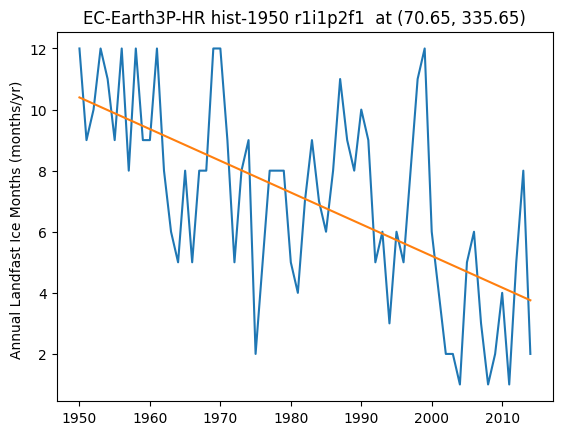
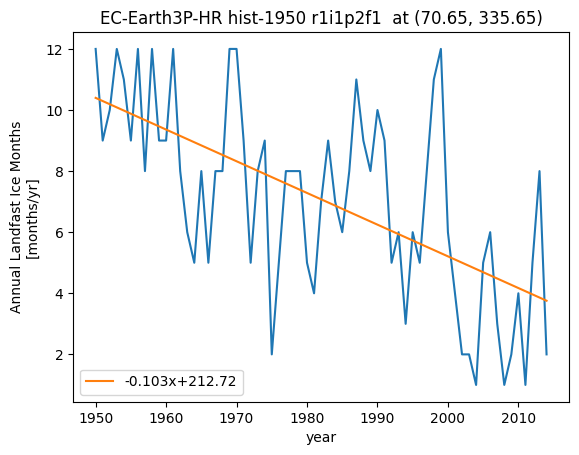
docs(landfast_trends): update single cell trend code blocks to use `plot_time_series()` function

Changed region(s): [[0.0, 0.0, 0.9982, 0.9862], [0.0, 0.7172, 0.0605, 0.8368], [0.0605, 0.8069, 0.0907, 0.8368]]

diff --git a/docs/docs_analysis/landfast_trends.md b/docs/docs_analysis/landfast_trends.md
@@ -14,6 +14,7 @@ This directly uses the `silandfast` datafiles generated in {doc}`Identifying lan
     - [HadGEM3-GC31-HM landfast ice trend maps](#hadgem3-gc31-hm-landfast-ice-trend-maps)
     - [HadGEM3-GC31-HH landfast ice trend map](#hadgem3-gc31-hh-landfast-ice-trend-map)
 
+---
 ## Calculating trends in landfast ice
 [back to top](#trends-in-landfast-ice-over-time)
 
@@ -165,38 +166,26 @@ print(f"Longitude: {test_spot_xr['longitude'].values}")
 Latitude: 70.64608001708984
 Longitude: 335.64935302734375
 ```
-For this chosen spot, I can then use the `numpy.polyfit()` function to get trend line.
+For this chosen spot, I can then use the `numpy.polyfit()` function to get trend line, a process which I've written into my `plot_time_series()` function.
 ```python
-import matplotlib.pyplot as plt 
+from arctichoke.plot import make_title, plot_time_series
 
-# Create a figure with one subplot
-fig = plt.figure()
-ax = fig.add_subplot(1,1,1)
-
-# Plot `silandfast_year_sum` over time
-ax.plot(test_spot_xr['year'].values, test_spot_xr['silandfast_year_sum'].values)
-
-import numpy as np
-
-# Returns an array of [m, b] for y=mx+b
-regressions = np.polyfit(test_spot_xr.year.values, test_spot_xr['silandfast_year_sum'].values, 1)
-print(f"Slope of regression line: {regressions[0]} annual landfast ice months per year")
-
-# Plot the regression line
-ax.plot(test_spot_xr.year.values, test_spot_xr.year.values*regressions[0] + regressions[1])
-
-from arctichoke.plot.labels_and_titles import make_title, make_label
-
-# Format the plot
-ax.set_ylabel(make_label(test_spot_xr, 'silandfast_year_sum'))
+# Make the plot title
 this_lon = f"{test_spot_xr['longitude'].values:.2f}"
 this_lat = f"{test_spot_xr['latitude'].values:.2f}"
-ax.set_title(f"{make_title(test_spot_xr)} at ({this_lat}, {this_lon})")
+this_plot_title = f"{make_title(test_spot_xr)} at ({this_lat}, {this_lon})"
 
-plt.show()
+this_plot = plot_time_series(
+    test_spot_xr,
+    'silandfast_year_sum',
+    plt_title = this_plot_title,
+    add_regression = True,
+    verbose = True,
+)
 ```
 ```console
-Slope of regression line: -0.1037587412587413 annual landfast ice months per year
+(plot_time_series) `save_as`: None
+(plot_time_series) Slope of regression line: -0.1037587412587413
 ```
 ![EC_Earth3P-HR_silandfast_CAA_sum_trend_at_Ittoqqortoormiit.png](landfast_trends-img/EC_Earth3P-HR_silandfast_CAA_sum_trend_at_Ittoqqortoormiit.png)
 
@@ -206,38 +195,26 @@ Most of the trends in the CAA are much smaller, for example the one below for a 
 ```python
 test_spot_xr = EC_Earth3P_HR_hist_silandfast_CAA_sum_xr.isel(j=198, i=518)
 
-import matplotlib.pyplot as plt 
+from arctichoke.plot import make_title, plot_time_series
 
-# Create a figure with one subplot
-fig = plt.figure()
-ax = fig.add_subplot(1,1,1)
-
-# Plot `silandfast_year_sum` over time
-ax.plot(test_spot_xr['year'].values, test_spot_xr['silandfast_year_sum'].values)
-
-import numpy as np
-
-# Returns an array of [m, b] for y=mx+b
-regressions = np.polyfit(test_spot_xr.year.values, test_spot_xr['silandfast_year_sum'].values, 1)
-print(f"Slope of regression line: {regressions[0]} annual landfast ice months per year")
-
-# Plot the regression line
-ax.plot(test_spot_xr.year.values, test_spot_xr.year.values*regressions[0] + regressions[1])
-
-from arctichoke.plot.labels_and_titles import make_title, make_label
-
-# Format the plot
-ax.set_ylabel(make_label(test_spot_xr, 'silandfast_year_sum'))
+# Make the plot title
 this_lon = f"{test_spot_xr['longitude'].values:.2f}"
 this_lat = f"{test_spot_xr['latitude'].values:.2f}"
-ax.set_title(f"{make_title(test_spot_xr)} at ({this_lat}, {this_lon})")
+this_plot_title = f"{make_title(test_spot_xr)} at ({this_lat}, {this_lon})"
 
-plt.show()
+this_plot = plot_time_series(
+    test_spot_xr,
+    'silandfast_year_sum',
+    plt_title = this_plot_title,
+    add_regression = True,
+    verbose = True,
+)
 ```
 ```console
-Slope of regression line: -0.0193181818181819 annual landfast ice months per year
+(plot_time_series) `save_as`: None
+(plot_time_series) Slope of regression line: -0.0193181818181819
 ```
-![EC_Earth3P-HR_silandfast_CAA_sum_trend_at_77_252.png](landfast_trends-img/EC_Earth3P-HR_silandfast_CAA_sum_trend_at_77_252.png)
+![EC_Earth3P-HR_silandfast_CAA_sum_trend_at_78_253.png](landfast_trends-img/EC_Earth3P-HR_silandfast_CAA_sum_trend_at_78_253.png)
 
 ## Maps of landfast ice trends
 [back to top](#trends-in-landfast-ice-over-time)